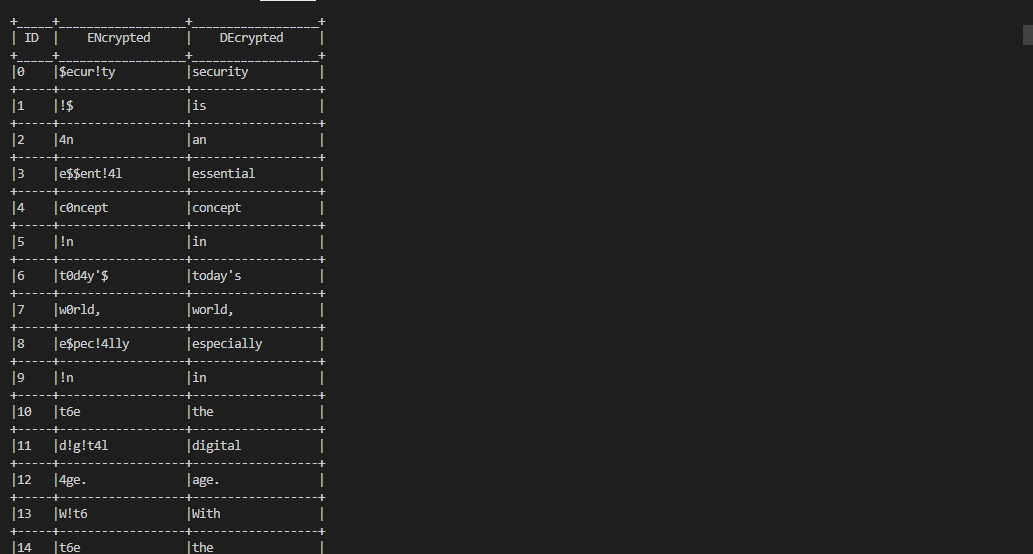
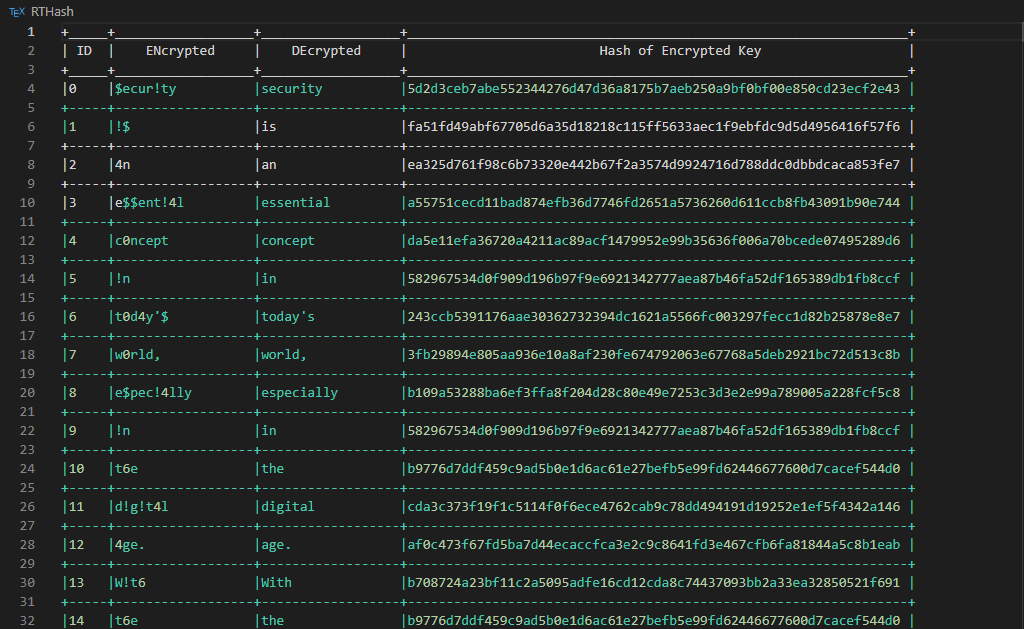
Edit Readme.md
Add the new hashed key column and the search method to the images

diff --git a/README.md b/README.md
@@ -2,8 +2,18 @@
 
 A simple project which represents how the rainbow table works, the decryption algorithm is so simple and this is a command line app
 
+---
+
+### Program Intro
+
 ![1](./1.png)
 
+### Output Table
+
 ![2](./2.png)
+
+### Search for a specific key either by Hash or Encrypted or Decrypted Key
+
+![3](./3.png)
 
 _Any suggestion and contribution will be thankful!_
